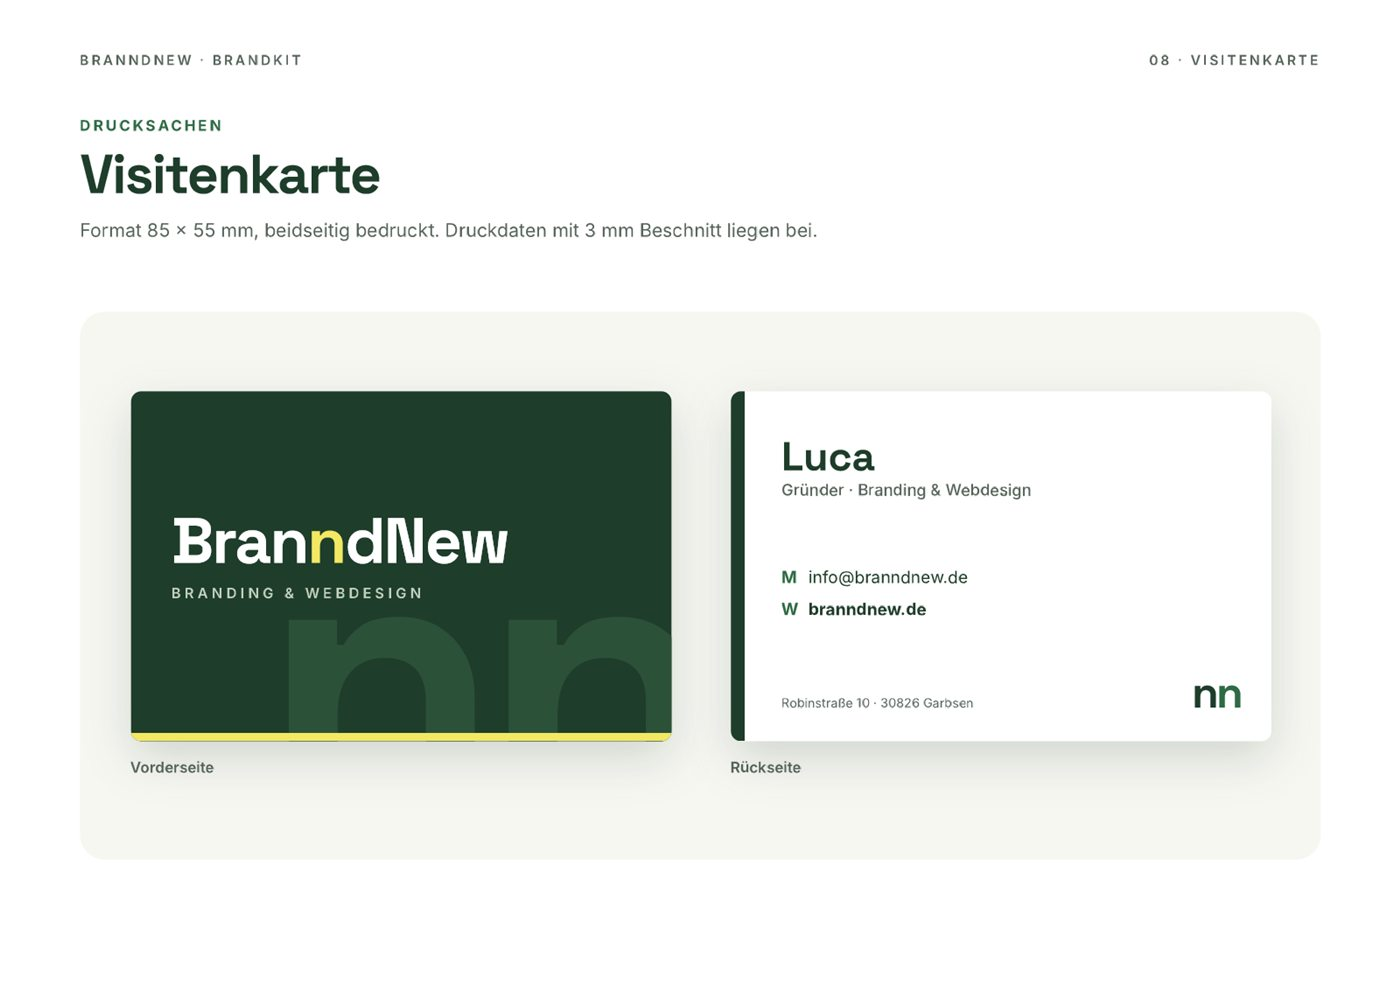
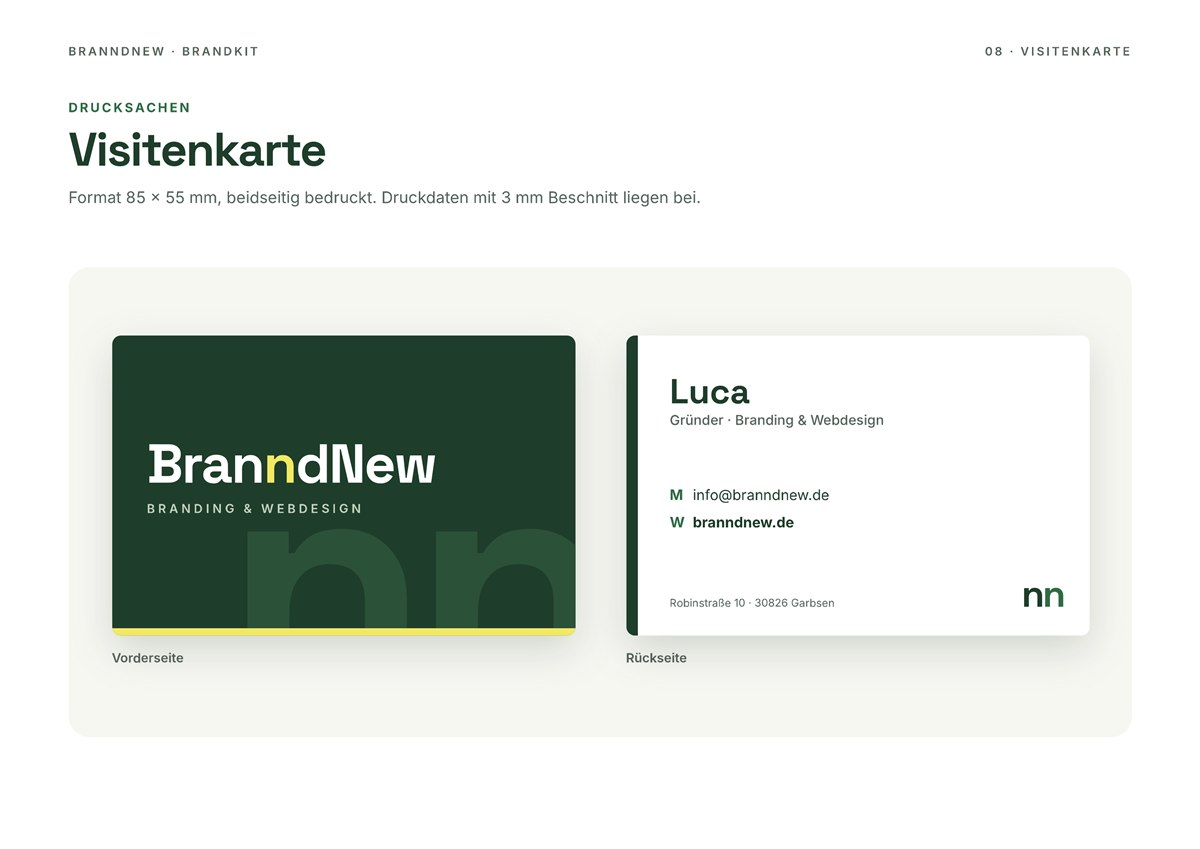
Brandkit: Großansicht mit Pfeilen, Wischen und scharfen Bildern

diff --git a/index.html b/index.html
@@ -382,7 +382,29 @@ details.own[open] .own-body { animation: ownIn .45s cubic-bezier(.2, .7, .2, 1);
 .own-pages { display: flex; gap: 14px; overflow-x: auto; scroll-snap-type: x mandatory; padding: 4px 2px 14px; -webkit-overflow-scrolling: touch; scrollbar-width: thin; }
 .own-pages a { flex: 0 0 min(78%, 460px); scroll-snap-align: start; display: block; border-radius: 12px; overflow: hidden; border: 1px solid var(--line); background: #fff; box-shadow: 0 8px 24px rgba(31, 61, 43, .08); transition: transform .2s ease, box-shadow .2s ease; position: relative; }
 .own-pages a:hover { transform: translateY(-3px); box-shadow: 0 14px 32px rgba(31, 61, 43, .14); }
-.own-pages img { display: block; width: 100%; height: auto; aspect-ratio: 1400 / 990; object-fit: cover; }
+.own-pages img { display: block; width: 100%; height: auto; aspect-ratio: 1200 / 849; object-fit: cover; }
+.own-pages a { cursor: zoom-in; }
+/* Großansicht */
+.lb { position: fixed; inset: 0; z-index: 300; background: rgba(15, 30, 21, .94); display: grid; grid-template-columns: auto minmax(0, 1fr) auto; grid-template-rows: auto minmax(0, 1fr); align-items: center; gap: 12px; padding: max(14px, env(safe-area-inset-top)) clamp(10px, 3vw, 28px) max(18px, env(safe-area-inset-bottom)); animation: lbIn .25s ease; }
+.lb[hidden] { display: none; }
+@keyframes lbIn { from { opacity: 0; } }
+.lb-top { grid-column: 1 / -1; display: flex; justify-content: space-between; align-items: center; color: #C3D2BF; font: 600 14px/1 var(--body); }
+.lb-x { width: 44px; height: 44px; border-radius: 50%; border: 0; background: var(--sun); color: var(--navy); font-size: 26px; line-height: 1; cursor: pointer; }
+.lb-fig { margin: 0; min-width: 0; height: 100%; display: flex; flex-direction: column; align-items: center; justify-content: center; gap: 12px; }
+.lb-fig img { max-width: 100%; max-height: calc(100% - 34px); border-radius: 10px; box-shadow: 0 30px 80px rgba(0, 0, 0, .45); background: #fff; }
+.lb-fig figcaption { color: #fff; font: 700 16px/1.2 var(--display); }
+.lb-fig img.in-r { animation: lbR .3s cubic-bezier(.2, .7, .2, 1); }
+.lb-fig img.in-l { animation: lbL .3s cubic-bezier(.2, .7, .2, 1); }
+@keyframes lbR { from { opacity: .3; transform: translateX(30px); } }
+@keyframes lbL { from { opacity: .3; transform: translateX(-30px); } }
+.lb-arr { width: 52px; height: 52px; border-radius: 50%; border: 1px solid rgba(255, 255, 255, .25); background: rgba(255, 255, 255, .08); color: #fff; font-size: 22px; cursor: pointer; transition: background .2s ease, transform .15s ease; }
+.lb-arr:hover { background: var(--sun); color: var(--navy); border-color: var(--sun); }
+.lb-arr:active { transform: scale(.94); }
+@media (max-width: 700px) {
+  .lb { grid-template-columns: 1fr 1fr; grid-template-rows: auto minmax(0, 1fr) auto; }
+  .lb-fig { grid-column: 1 / -1; grid-row: 2; }
+  .lb-prev { grid-row: 3; justify-self: end; } .lb-next { grid-row: 3; justify-self: start; }
+}
 .own-nav { display: flex; justify-content: flex-end; gap: 8px; margin-top: -10px; }
 .own-nav button { width: 44px; height: 44px; border-radius: 50%; border: 1px solid var(--line); background: var(--surface); color: var(--fg); font-size: 18px; cursor: pointer; transition: background .2s ease, transform .15s ease; }
 .own-nav button:hover { background: var(--navy); color: #fff; border-color: var(--navy); }
@@ -1391,7 +1413,7 @@ ${sentVia === "db" ? `<h3>Danke, ${esc(sentName)}!</h3>
   const ownFill = () => {
     if (!ownD.open || ownP.childElementCount) return;
     ownP.innerHTML = OWN.map((t, i) => { const f = "img/brandkit/seite-" + String(i + 1).padStart(2, "0") + ".jpg";
-      return `<a href="${f}" target="_blank" rel="noopener"><img src="${f}" alt="BranndNew Brandkit, Seite ${i + 1}: ${t}" width="1400" height="990" loading="lazy"><span>${String(i + 1).padStart(2, "0")} · ${t}</span></a>`; }).join("");
+      return `<a href="${f.replace(".jpg", "-gross.jpg")}" target="_blank" rel="noopener"><img src="${f}" alt="BranndNew Brandkit, Seite ${i + 1}: ${t}" width="1200" height="849" loading="lazy"><span>${String(i + 1).padStart(2, "0")} · ${t}</span></a>`; }).join("");
   };
   if (ownD && ownP) {
     ownD.addEventListener("toggle", ownFill); ownFill();
@@ -1399,6 +1421,48 @@ ${sentVia === "db" ? `<h3>Danke, ${esc(sentName)}!</h3>
       const a = ownP.querySelector("a"); if (!a) return;
       ownP.scrollBy({ left: Number(b.dataset.own) * (a.offsetWidth + 14), behavior: "smooth" });
     }));
+
+    // Großansicht mit Pfeilen, Tastatur und Wischen
+    const lb = document.createElement("div");
+    lb.className = "lb"; lb.hidden = true;
+    lb.setAttribute("role", "dialog"); lb.setAttribute("aria-modal", "true"); lb.setAttribute("aria-label", "Brandkit-Seiten");
+    lb.innerHTML = `<div class="lb-top"><span class="lb-cnt"></span><button type="button" class="lb-x" aria-label="Schließen">×</button></div>
+      <button type="button" class="lb-arr lb-prev" aria-label="Vorherige Seite">←</button>
+      <figure class="lb-fig"><img alt=""><figcaption></figcaption></figure>
+      <button type="button" class="lb-arr lb-next" aria-label="Nächste Seite">→</button>`;
+    document.body.appendChild(lb);
+    const lbImg = lb.querySelector("img"), lbCap = lb.querySelector("figcaption"), lbCnt = lb.querySelector(".lb-cnt");
+    let lbI = 0, lbLast = null;
+    const src = (i) => "img/brandkit/seite-" + String(i + 1).padStart(2, "0") + "-gross.jpg";
+    const show = (i, dir) => {
+      lbI = (i + OWN.length) % OWN.length;
+      lbImg.src = src(lbI); lbImg.alt = "BranndNew Brandkit, Seite " + (lbI + 1) + ": " + OWN[lbI];
+      lbCap.textContent = OWN[lbI]; lbCnt.textContent = (lbI + 1) + " / " + OWN.length;
+      lbImg.classList.remove("in-l", "in-r"); void lbImg.offsetWidth; if (dir) lbImg.classList.add(dir > 0 ? "in-r" : "in-l");
+      new Image().src = src((lbI + 1) % OWN.length); new Image().src = src((lbI - 1 + OWN.length) % OWN.length);
+    };
+    const open = (i) => { lbLast = document.activeElement; show(i, 0); lb.hidden = false; document.documentElement.style.overflow = "hidden"; lb.querySelector(".lb-next").focus(); };
+    const close = () => { lb.hidden = true; document.documentElement.style.overflow = ""; if (lbLast) lbLast.focus(); };
+    ownP.addEventListener("click", (e) => {
+      const a = e.target.closest("a"); if (!a) return;
+      e.preventDefault(); open([...ownP.children].indexOf(a));
+    });
+    lb.querySelector(".lb-prev").addEventListener("click", () => show(lbI - 1, -1));
+    lb.querySelector(".lb-next").addEventListener("click", () => show(lbI + 1, 1));
+    lb.querySelector(".lb-x").addEventListener("click", close);
+    lb.addEventListener("click", (e) => { if (e.target === lb || e.target.classList.contains("lb-fig")) close(); });
+    document.addEventListener("keydown", (e) => {
+      if (lb.hidden) return;
+      if (e.key === "Escape") close();
+      else if (e.key === "ArrowRight") show(lbI + 1, 1);
+      else if (e.key === "ArrowLeft") show(lbI - 1, -1);
+    });
+    let tx = 0, ty = 0;
+    lb.addEventListener("touchstart", (e) => { tx = e.touches[0].clientX; ty = e.touches[0].clientY; }, { passive: true });
+    lb.addEventListener("touchend", (e) => {
+      const dx = e.changedTouches[0].clientX - tx, dy = e.changedTouches[0].clientY - ty;
+      if (Math.abs(dx) > 45 && Math.abs(dx) > Math.abs(dy)) show(lbI + (dx < 0 ? 1 : -1), dx < 0 ? 1 : -1);
+    }, { passive: true });
   }
 
   onScroll();
